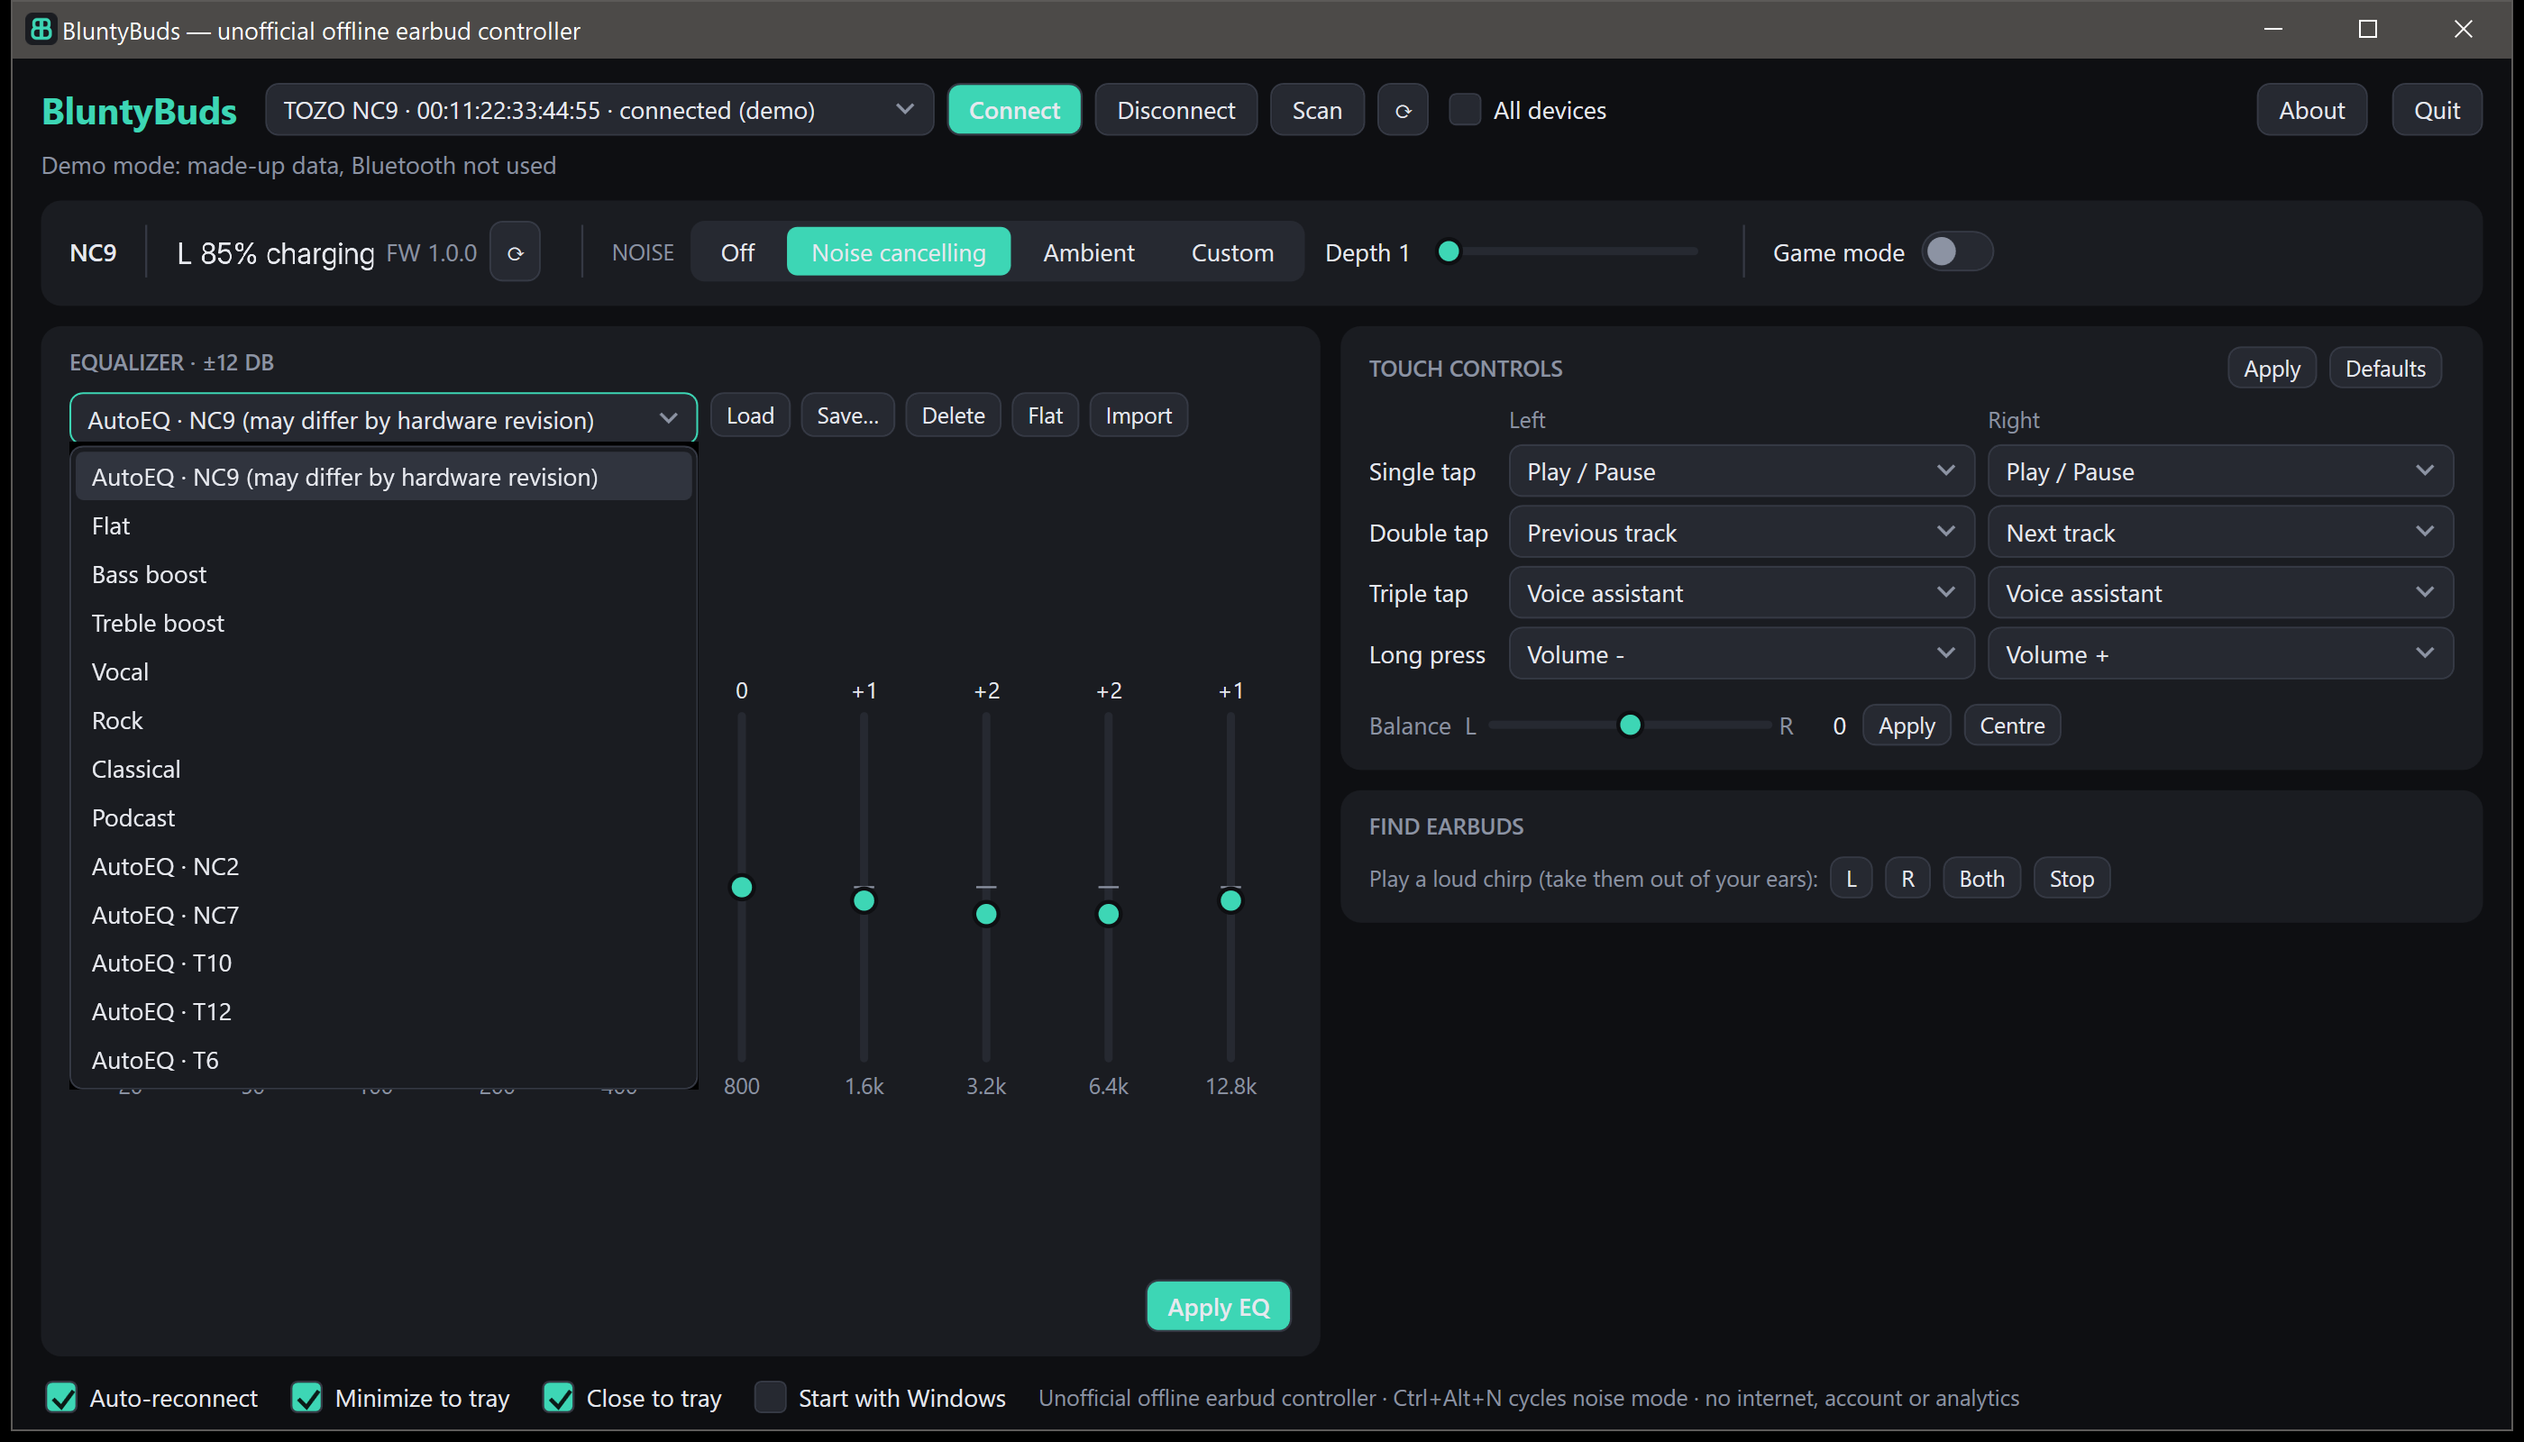
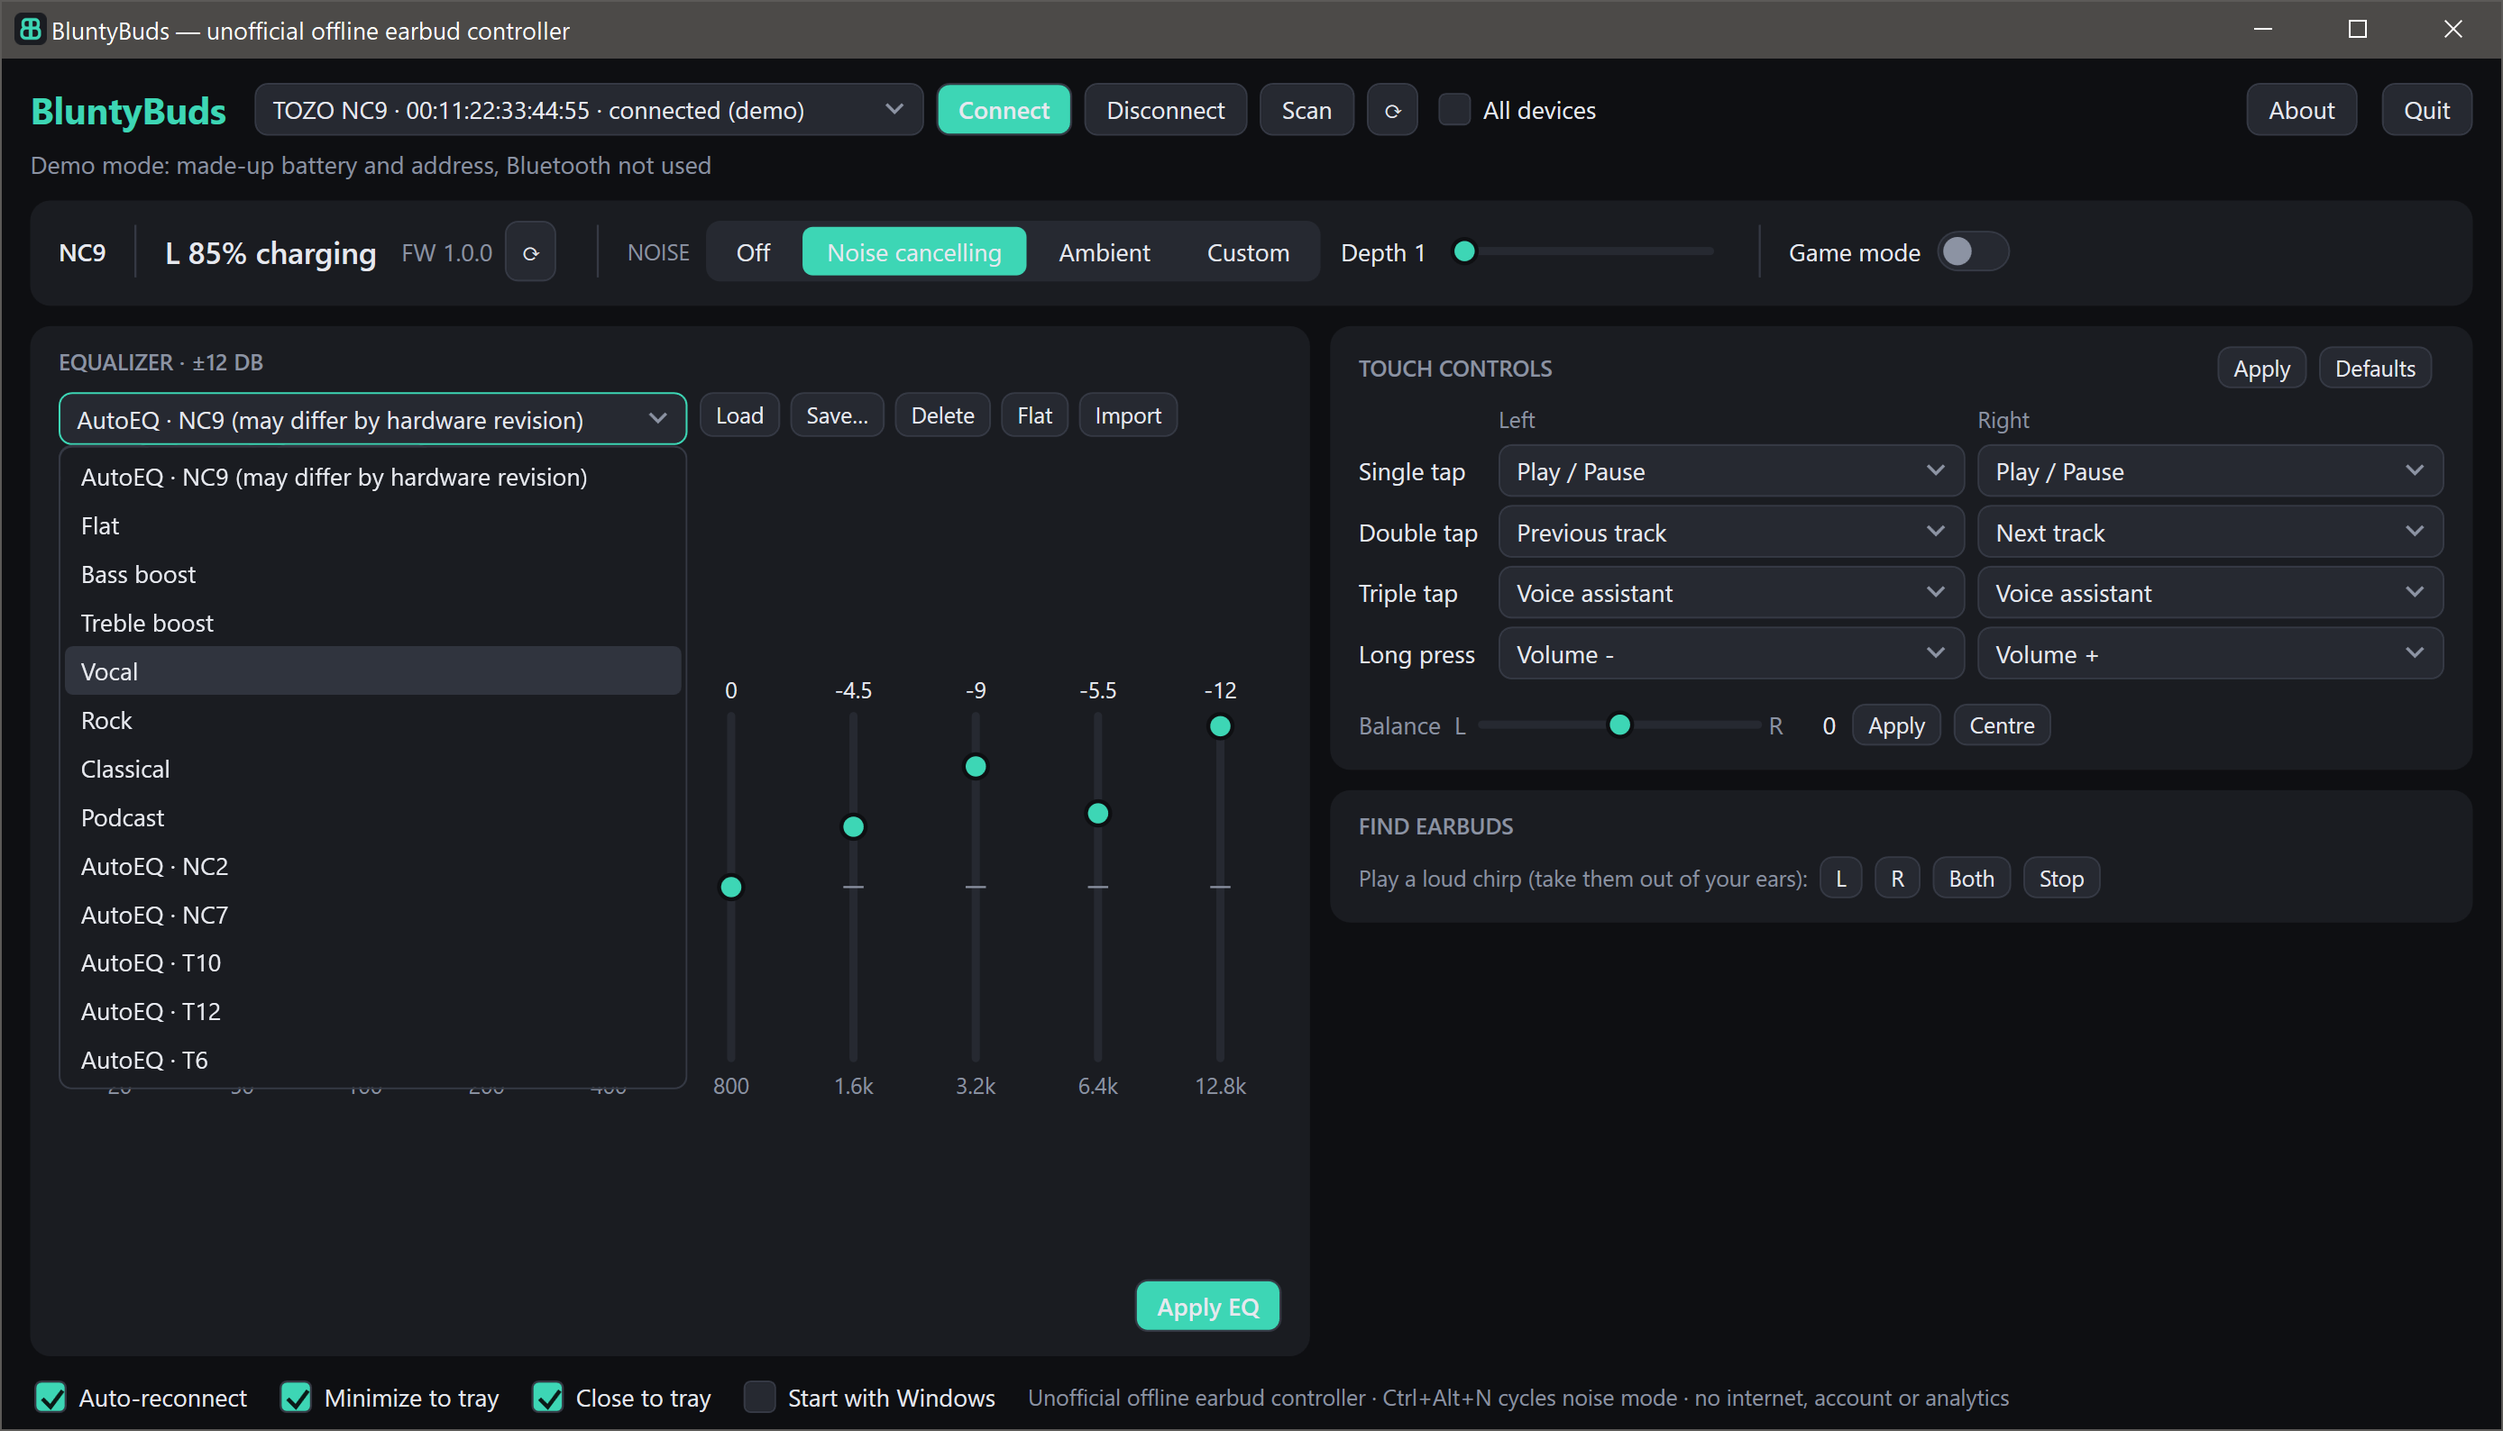
Demo screenshots show the real NC9 profile.
The preset list said AutoEQ NC9 while the sliders showed a boosting handmade curve. Demo mode now loads that profile, which stays at or below 0 dB. The changelog notes that Load and an AutoEQ import send immediately on both Windows and Android.

diff --git a/windows/BluntyBuds.Win/MainWindow.cs b/windows/BluntyBuds.Win/MainWindow.cs
@@ -700,10 +700,17 @@ public sealed class MainWindow : Window
         _devItems.Add(item); _devices.SelectedItem = item;
         _model = item.Model;
         ApplyModel(); SetConnectedUi(true);
+        // The preset name has to match the sliders. The old handmade curve boosted, which the AutoEQ profile does not.
+        var (ae, sure) = MyAutoEqMatch;
+        if (ae is not null)
+        {
+            RefreshPresets(AutoEq.SuggestLabel(ae, sure));
+            SetEq(ae.Gains);
+        }
         foreach (var e in new Event[] { new Event.Battery(85, null, ChargingLeft: true, Snapshot: true), new Event.Firmware("1.0.0", "1.0.0"), new Event.Anc((int)AncMode.Anc),
-                     new Event.Game(false), new Event.Eq(new float[] { 3, 2, 1, 0, 0, 0, 1, 2, 2, 1 }), new Event.Balance(0), new Event.Touch(TouchMap.Defaults()) })
+                     new Event.Game(false), new Event.Balance(0), new Event.Touch(TouchMap.Defaults()) })
             OnEvent(e);
-        _status.Text = "Demo mode: made-up data, Bluetooth not used";
+        _status.Text = "Demo mode: made-up battery and address, Bluetooth not used";
     }
 
     async Task RefreshAll()

diff --git a/CHANGELOG.md b/CHANGELOG.md
@@ -4,12 +4,12 @@
 
 ## 1.4.4
 - One earbud: battery text, the tray, and alerts show only the bud that is in use. A missing bud is left out. It is not called disconnected and it does not keep the last percent. Low-battery alerts use only the bud you are wearing. A charging bud is marked "charging".
-- EQ: Load (and an AutoEQ file import, on Windows) sends the profile immediately, so you do not click Apply afterwards.
+- EQ: Load, and an AutoEQ file import, sends the profile immediately on Windows and Android, so you do not click Apply afterwards.
 - Android: the earbud-status notification is one notification. Turning it on no longer also posts the low-battery alert, and a burst of battery updates no longer posts a second card. It appears as soon as notification permission is granted.
 - Android: the option is named "Earbud status in the notification shade".
 - Names: the noise buttons say "Noise cancelling" and "Ambient". Touch actions say "Switch noise mode" and "Noise off". Ambient is the pass-through control.
 - Windows: the preset box is wider so long AutoEQ labels ("AutoEQ · NC9 (may differ by hardware revision)") are no longer cut off; the EQ tool row wraps on narrow windows.
-- Docs: screenshots recaptured for 1.4.4 (demo mode). The demo battery line is one bud, marked charging.
+- Docs: screenshots recaptured for 1.4.4 (demo mode). The battery line is one bud, marked charging. The EQ curve is the built-in NC9 profile, which does not boost.
 
 ## 1.4.1
 - AutoEQ headroom: profiles no longer boost. Every fit (built-in profiles and imported files) is shifted down so the highest band is at most 0 dB, then clamped to ±12 dB and quantized to 0.5 dB. Built-in profiles regenerated (they boosted up to +7.5 dB with no preamp before).

diff --git a/README.md b/README.md
@@ -9,7 +9,7 @@ no internet permission, no account, no analytics, no auto-update.
 
 Unofficial: not affiliated with or endorsed by TOZO. Tested on NC9 and A1; other models are detected and marked untested.
 
-![BluntyBuds on Windows (demo mode, made-up data)](docs/hero.png)
+![BluntyBuds on Windows (demo mode: one charging earbud, built-in NC9 profile)](docs/hero.png)
 
 ## Why this exists
 The official app asks for roughly 39 permissions, including your microphone and your location in the background. It is built around user accounts, ships with analytics and push-notification services, bundles voice chat, and keeps checking in with the vendor's servers. All of that just to change an EQ and read a battery level.
@@ -59,9 +59,9 @@ Release signing is read from a properties file **outside** the repo:
 Without it the release APK is built unsigned.
 
 ## Screenshots
-![AutoEQ profiles in the preset list (demo mode, made-up data)](docs/autoeq-presets.png)
+![AutoEQ profiles in the preset list (demo mode, built-in NC9 profile)](docs/autoeq-presets.png)
 
-![Touch-control mapping (demo mode, made-up data)](docs/touch-controls.png)
+![Touch-control mapping (demo mode)](docs/touch-controls.png)
 
 ## Model support
 
